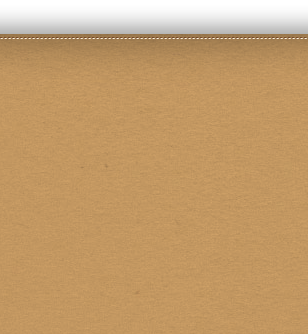
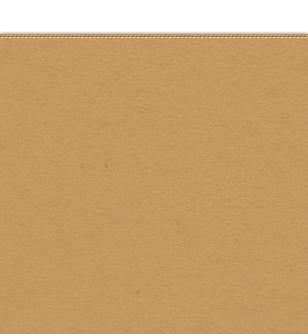
uebergaenge

Changed region(s): [[0.0, 0.0599, 1.0, 0.1497]]

diff --git a/app/assets/stylesheets/global.sass b/app/assets/stylesheets/global.sass
@@ -193,13 +193,28 @@ body
 .uebergang
   background-image: url(image_path('pattern_uebergang1.jpg'))
   background-repeat: repeat-x
-  height: 116px
+  height: 113px
 
 
 .uebergang2
   background-image: url(image_path('pattern_uebergang2.jpg'))
   background-repeat: repeat-x
   height: 140px
+
+.uebergang3
+  background-image: url(image_path('pattern_uebergang3.jpg'))
+  background-repeat: repeat-x
+  height: 116px
+
+.uebergang4
+  background-image: url(image_path('pattern_uebergang4.jpg'))
+  background-repeat: repeat-x
+  height: 116px
+
+.uebergang5
+  background-image: url(image_path('pattern_uebergang5.jpg'))
+  background-repeat: repeat-x
+  height: 113px
 
 .mitte_bildzeichen
   margin: auto  
